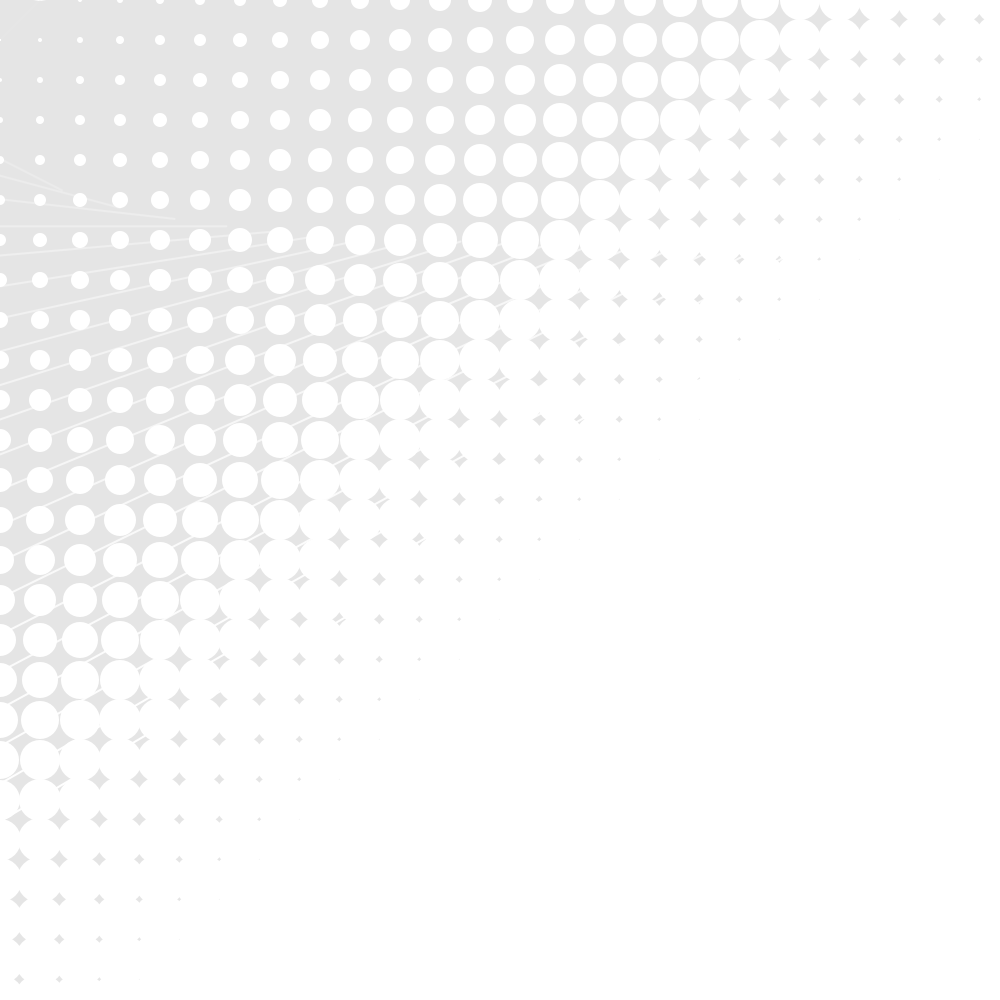
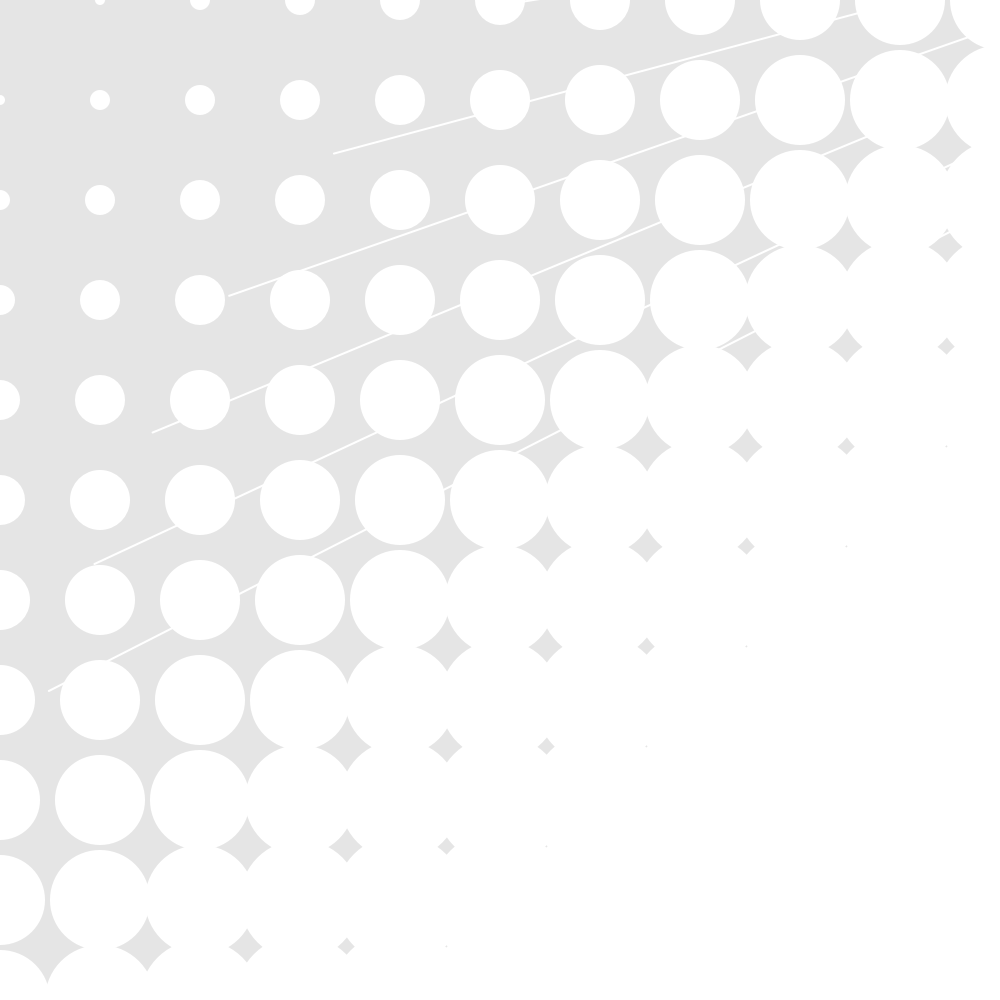
Adjust vars for panaginip

diff --git a/003_playlist_covers/main.go b/003_playlist_covers/main.go
@@ -5,23 +5,25 @@ import "github.com/fogleman/gg"
 func main() {
 	var w float64 = 1000
 	var h float64 = 1000
-	var drip float64 = 25
+	var drip float64 = 10
 	dc := gg.NewContext(int(w), int(h))
+
 	dc.SetRGB(0.9, 0.9, 0.9)
 	dc.DrawRectangle(0, 0, w, h)
 	dc.Fill()
+
 	for i := 0; i <= int(drip); i += 1 {
+		dc.Push()
 		for j := 0; j <= int(drip); j += 1 {
 			x := float64(i) * w / drip
 			y := float64(j) * h / drip
 			a := float64(i+j) / (2 * drip)
 			dc.SetRGB(1, 1, 1)
-			dc.DrawCircle(x, y, 50*a)
+			dc.DrawCircle(x, y, 100*a)
 			dc.Fill()
 		}
-		dc.Push()
-		dc.SetRGBA(1, 1, 1, float64(i)/drip)
-		dc.RotateAbout(gg.Radians(360/float64(i)), 0, 0)
+		dc.SetRGB(1, 1, 1)
+		dc.RotateAbout(gg.Radians(180/float64(i)), w, h)
 		dc.SetLineWidth(2)
 		dc.DrawLine(0, float64(i)*w/drip, float64(i)*h/drip, 0)
 		dc.Stroke()
